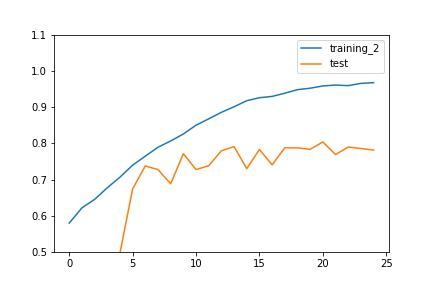
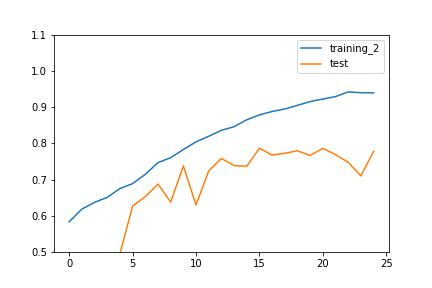
retrainning Mobilnet

diff --git a/Web/pages/4 - Bonus.py b/Web/pages/4 - Bonus.py
@@ -33,14 +33,12 @@ def plot_matrice_confus(path):
                        x=df.columns,
                        y=df.index,
                        colorscale='amp')
+    
     # Création d'une figure Plotly et ajout de la trace
     fig = go.Figure(data=[trace])
     
     return fig 
     
-    
-    
-
 # Affichage du titre
 st.markdown("<h1 style='text-align: center; color: grey;'>Bonus</h1>", unsafe_allow_html=True)
 
@@ -73,6 +71,10 @@ with tab1:
                     input_shape=(SIZE,SIZE,3),
                     pooling='max',
                     classes=np.max(train_labels+1))
+        
+        Total params: 23,587,712
+        Trainable params: 23,534,592
+        Non-trainable params: 53,120
                '''
        st.code(code, language='python')
        
@@ -118,6 +120,10 @@ with tab1:
                     input_shape=(SIZE,SIZE,3),
                     pooling='max',
                     classes=np.max(train_labels+1))
+        
+        Total params: 23,591,810
+        Trainable params: 23,538,690
+        Non-trainable params: 53,120
                '''
        st.code(code, language='python')
        
@@ -168,6 +174,11 @@ with tab1:
         model.add(Dense(64, activation="relu"))
         model.add(Dense(2, activation = 'softmax'))
         model.layers[0].trainable = False
+       
+        
+       Total params: 23,723,138
+       Trainable params: 135,426
+       Non-trainable params: 23,587,712
                '''
        st.code(code, language='python')
        
@@ -182,7 +193,7 @@ with tab1:
                 
             st.header("Métriques.")
             
-            with open('.\Resnet50\CNN Resnet50 fine\CNN Trans Learn 244x244 batch_5', 'rb') as f:
+            with open('.\Resnet50\CNN Trans Learn 244x244 batch_5\performance.pickle', 'rb') as f:
                 performance=pickle.load(f)
                
             st.subheader("")
@@ -202,17 +213,143 @@ with tab2:
         # Création de 2 onglets
         tab11, tab12, tab13 = st.tabs(["Alpha = 1", 
                               "Alpha = 0.35",
-                              "Alpha = 1 (64x64)"])
+                              "Alpha = 5 (64x64)"])
         
         with tab11: 
             st.plotly_chart(plot_train_graph(".\MobileNetV2\Training\MobileNetV2\\"), use_container_width=True)
             
+            st.title("Model.")
+            code = '''
+            model=MobileNetV2(include_top=True,
+                                weights=None,
+                                input_tensor=None,
+                                input_shape=(SIZE,SIZE,3),
+                                pooling='max',
+                                classes=np.max(train_labels+1))
+             
+              
+            Total params: 2,260,546
+            Trainable params: 2,226,434
+            Non-trainable params: 34,112
+                    '''
+            st.code(code, language='python')
+            
+            col11, col12 = st.columns(2)
+            
+            with col11:     
+            
+                st.header("Matrice de confusion.")
+                st.plotly_chart(plot_matrice_confus(".\MobileNetV2\Training\MobileNetV2\\"), use_container_width=True)
+                
+            with col12:     
+                     
+                  st.header("Métriques.")
+                 
+                  with open('.\MobileNetV2\Training\MobileNetV2\performance.pickle', 'rb') as f:
+                      performance=pickle.load(f)
+                    
+                  st.subheader("")
+                  st.subheader("")
+                  st.subheader("")
+                  st.subheader("")
+                  st.subheader("")
+                  st.subheader("")
+                 
+                  st.subheader("Precision : " + str(round(performance[0]*100, 3)) +" %")
+                  st.subheader("Recall : " + str(round(performance[1]*100, 3)) +" %")
+                  st.subheader("f_score : " + str(round(performance[2]*100, 3)) +" %")
+            
         with tab12:
             st.plotly_chart(plot_train_graph(".\MobileNetV2\Training\MobileNetV2 0.35\\"), use_container_width=True)
         
+            st.title("Model.")
+            code = '''
+            model=MobileNetV2(include_top=True,
+                              weights=None,
+                              input_tensor=None,
+                              alpha=0.35,
+                              input_shape=(SIZE,SIZE,3),
+                              pooling='max',
+                              classes=np.max(train_labels+1))
+             
+              
+            Total params: 412,770
+            Trainable params: 398,690
+            Non-trainable params: 14,080
+                    '''
+            st.code(code, language='python')
+            
+            col11, col12 = st.columns(2)
+            
+            with col11:     
+            
+                st.header("Matrice de confusion.")
+                st.plotly_chart(plot_matrice_confus(".\MobileNetV2\Training\MobileNetV2 0.35\\"), use_container_width=True)
+                
+            with col12:     
+                     
+                  st.header("Métriques.")
+                 
+                  with open('.\MobileNetV2\Training\MobileNetV2 0.35\performance.pickle', 'rb') as f:
+                      performance=pickle.load(f)
+                    
+                  st.subheader("")
+                  st.subheader("")
+                  st.subheader("")
+                  st.subheader("")
+                  st.subheader("")
+                  st.subheader("")
+                 
+                  st.subheader("Precision : " + str(round(performance[0]*100, 3)) +" %")
+                  st.subheader("Recall : " + str(round(performance[1]*100, 3)) +" %")
+                  st.subheader("f_score : " + str(round(performance[2]*100, 3)) +" %")
         with tab13:
             st.plotly_chart(plot_train_graph(".\MobileNetV2\Training\MobileNetV2 64x64 - 5\\"), use_container_width=True)
                
+        
+            st.title("Model.")
+            code = '''
+            model=MobileNetV2(include_top=True,
+                              weights=None,
+                              input_tensor=None,
+                              alpha=5,
+                              input_shape=(SIZE,SIZE,3),
+                              pooling='max',
+                              classes=np.max(train_labels+1))
+             
+              
+            Total params: 53,796,162
+            Trainable params: 53,625,602
+            Non-trainable params: 170,560
+                    '''
+            st.code(code, language='python')
+            
+            col11, col12 = st.columns(2)
+            
+            with col11:     
+            
+                st.header("Matrice de confusion.")
+                st.plotly_chart(plot_matrice_confus(".\MobileNetV2\Training\MobileNetV2 64x64 - 5\\"), use_container_width=True)
+                
+            with col12:     
+                     
+                  st.header("Métriques.")
+                 
+                  with open('.\MobileNetV2\Training\MobileNetV2 64x64 - 5\performance.pickle', 'rb') as f:
+                      performance=pickle.load(f)
+                    
+                  st.subheader("")
+                  st.subheader("")
+                  st.subheader("")
+                  st.subheader("")
+                  st.subheader("")
+                  st.subheader("")
+                 
+                  st.subheader("Precision : " + str(round(performance[0]*100, 3)) +" %")
+                  st.subheader("Recall : " + str(round(performance[1]*100, 3)) +" %")
+                  st.subheader("f_score : " + str(round(performance[2]*100, 3)) +" %")
+            
+            
     elif add_radio == lst[1]: 
         # Création de 2 onglets
         tab11, tab12 = st.tabs(["Alpha = 1", 
@@ -248,66 +385,3 @@ with tab2:
             
             st.plotly_chart(plot_train_graph(".\MobileNetV2\Transfere learning\MobileNetV2 224x224 - 0.35\\"), use_container_width=True)
             
-# # Titre de la form
-# st.title("Mode d'apprentissage des réseaux de neurones convolutifs (CNN).")
-
-# st.caption("")
-# st.caption("")
-
-# col11, col12, col13 = st.columns([1,6,1])
- 
-# # Affichage d'une image de réseau de neurone propagation retro-propagation  
-# with col12:        
-#     st.markdown("![Alt Text](https://i.makeagif.com/media/7-23-2019/q3ItDm.gif)")
-    
-# st.caption("")
-# st.caption("")
-
-# # Description sur les CNN
-# st.text('''
-#         Les réseaux de neurones convolutifs (CNN) sont des systèmes d'intelligence 
-#         artificielle qui pprennent à reconnaître des motifs et des formes dans des images.
-        
-#         Le processus d'apprentissage des CNN se fait en deux étapes. Tout d'abord, le 
-#         réseau est entraîné sur un ensemble de données d'images pour apprendre à 
-#         reconnaître les motifs et les caractéristiques des différentes classes d'images
-#         (par exemple, chats, chiens, oiseaux).
-
-#         Pendant cette première étape, le réseau va ajuster les poids de chaque neurone
-#         de chaque couche pour minimiser l'erreur de classification entre la sortie prédite
-#         par le réseau et la classe réelle de l'image. Cette étape peut prendre beaucoup de
-#         temps et nécessite souvent de grandes quantités de données.''')
-
-# col11, col12, col13 = st.columns([0.1,6,0.1])
-   
-# # Affichage d'une autre image de réseau de neurone propagation retro-propagation 
-# with col12:        
-#     st.markdown("![Alt Text](https://miro.medium.com/v2/resize:fit:640/1*mTTmfdMcFlPtyu8__vRHOQ.gif)")
- 
-# # Description sur les CNN
-# st.text('''
-#         Une fois que le réseau a été entraîné, il peut être utilisé pour classifier de 
-#         nouvelles images. Lorsqu'une nouvelle image est présentée au réseau, celui-ci
-#         utilise les caractéristiques qu'il a apprises lors de l'étape d'entraînement pour 
-#         prédire la classe de l'image.''')
-
-# st.caption("")
-# st.caption("")
-
-# col11, col12, col13 = st.columns([1,6,1])
-   
-# # Affichage d'une image de réseau de neurone propagation
-# with col12:        
-#     st.markdown("![Alt Text](https://miro.medium.com/v2/resize:fit:500/0*61ZaNNpbpMtZLLpZ.)")
-
-# st.caption("")
-# st.caption("")
-
-# # Conclusion sur les CNN
-# st.text('''
-#         En résumé, le processus d'apprentissage des CNN se fait en deux étapes : 
-#         l'entraînement sur un ensemble de données d'images pour apprendre à reconnaître 
-#         les motifs et les caractéristiques des différentes classes d'images, et 
-#         l'utilisation du réseau entraîné pour classifier de nouvelles images en utilisant 
-#         les caractéristiques qu'il a apprises. Ce processus permet aux CNN de reconnaître 
-#         des objets dans des images avec une grande précision.''')

diff --git a/Web/MobileNetV2/Training/MobileNetV2 0.35/evaluate_validation_dataset.py b/Web/MobileNetV2/Training/MobileNetV2 0.35/evaluate_validation_dataset.py
@@ -34,8 +34,10 @@ train_df, test_df = train_test_split(df,
 # Import du modèle sauvegardé
 from tensorflow.keras.models import load_model
 
-model = load_model('model_resnet50.h5')
+model = load_model('model_MobileNetV2.h5')
  
+model.summary()
+
 # Encodage des étiquettes avec LabelEncoder    
 le = LabelEncoder()
   

diff --git a/Web/MobileNetV2/Training/MobileNetV2 64x64 - 5/evaluate_validation_dataset.py b/Web/MobileNetV2/Training/MobileNetV2 64x64 - 5/evaluate_validation_dataset.py
@@ -34,8 +34,10 @@ train_df, test_df = train_test_split(df,
 # Import du modèle sauvegardé
 from tensorflow.keras.models import load_model
 
-model = load_model('model_resnet50.h5')
+model = load_model('model_MobileNetV2.h5')
  
+model.summary()
+
 # Encodage des étiquettes avec LabelEncoder    
 le = LabelEncoder()
   

diff --git a/Web/MobileNetV2/Training/MobileNetV2/evaluate_validation_dataset.py b/Web/MobileNetV2/Training/MobileNetV2/evaluate_validation_dataset.py
@@ -34,8 +34,10 @@ train_df, test_df = train_test_split(df,
 # Import du modèle sauvegardé
 from tensorflow.keras.models import load_model
 
-model = load_model('model_resnet50.h5')
+model = load_model('model_MobileNetV2.h5')
  
+model.summary()
+
 # Encodage des étiquettes avec LabelEncoder    
 le = LabelEncoder()
   

diff --git a/Web/Resnet50/CNN Resnet50 train/evaluate_validation_dataset.py b/Web/Resnet50/CNN Resnet50 train/evaluate_validation_dataset.py
@@ -35,6 +35,8 @@ train_df, test_df = train_test_split(df,
 from tensorflow.keras.models import load_model
 
 model = load_model('model_resnet50.h5')
+
+model.summary()
  
 # Encodage des étiquettes avec LabelEncoder    
 le = LabelEncoder()

diff --git a/Web/Resnet50/CNN Trans Learn 244x244 batch_5/evaluate_validation_dataset.py b/Web/Resnet50/CNN Trans Learn 244x244 batch_5/evaluate_validation_dataset.py
@@ -36,6 +36,8 @@ from tensorflow.keras.models import load_model
 
 model = load_model('model_resnet50_Transfère_Learning.h5')
  
+model.summary()
+
 # Encodage des étiquettes avec LabelEncoder    
 le = LabelEncoder()
   

diff --git a/Web/Resnet50/CNN Resnet50 fine/evaluate_validation_dataset.py b/Web/Resnet50/CNN Resnet50 fine/evaluate_validation_dataset.py
@@ -36,6 +36,8 @@ from tensorflow.keras.models import load_model
 
 model = load_model('model_resnet50.h5')
  
+model.summary()
+
 # Encodage des étiquettes avec LabelEncoder    
 le = LabelEncoder()
   

diff --git a/Web/MobileNetV2/Training/MobileNetV2/TensorflowEval.py b/Web/MobileNetV2/Training/MobileNetV2/TensorflowEval.py
@@ -22,7 +22,7 @@ warnings.filterwarnings("ignore", category=DeprecationWarning)
 
 BATCH_SIZE = 15
 SIZE=160
-SEED = 32
+SEED = 30
 
 def initialize():
     
